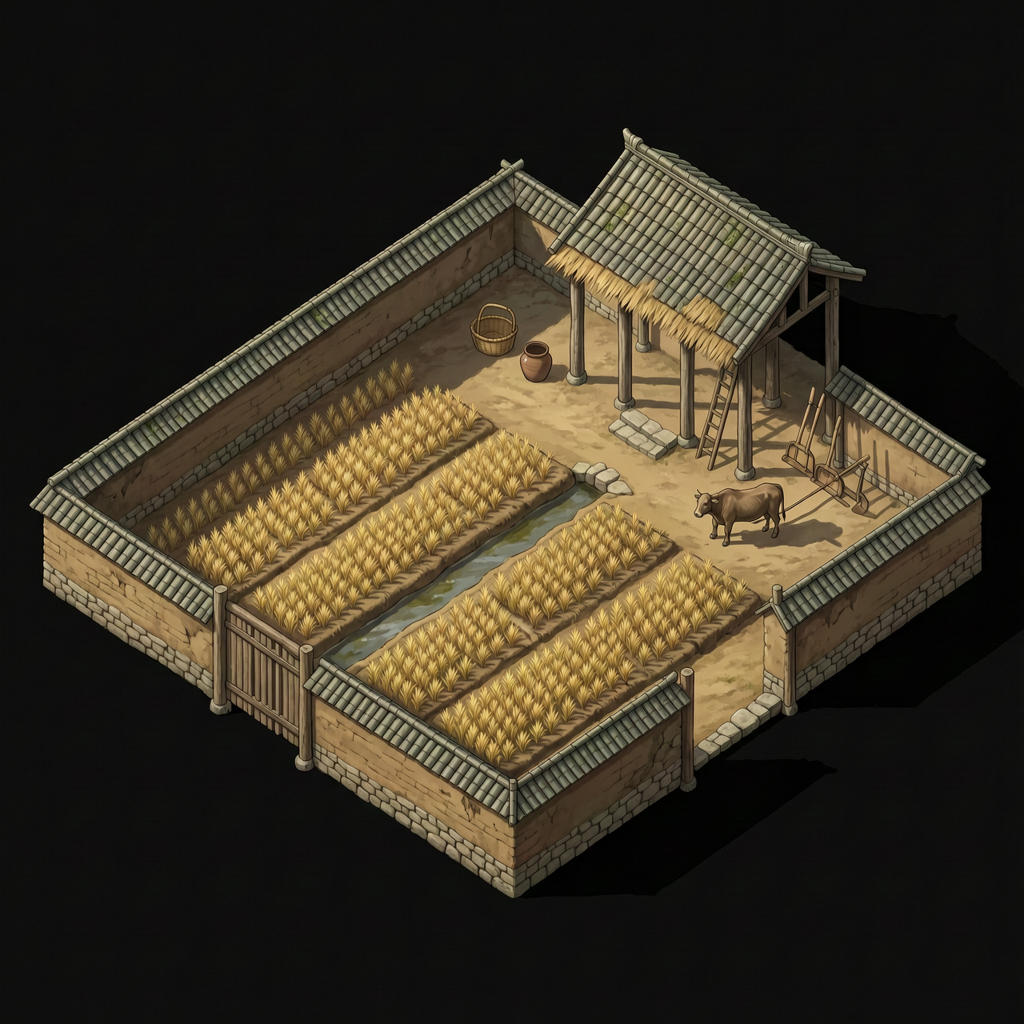
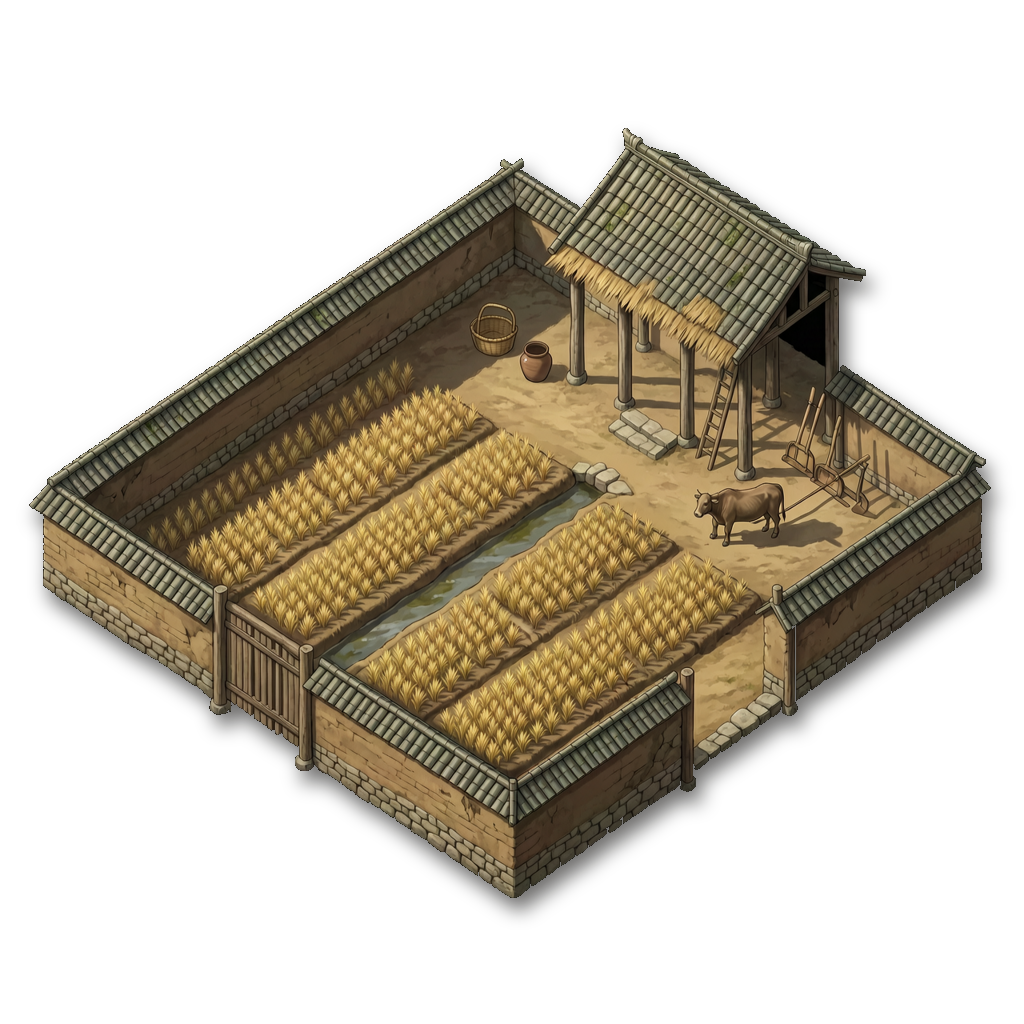
feat(art): 全20栋建筑扣黑底+柔和投影(Pillow)——无缝坐落地面,告别黑方块;原图备份art-library/buildings_raw(gitignore)

diff --git a/scripts/postprocess_buildings.py b/scripts/postprocess_buildings.py
@@ -1,0 +1,92 @@
+"""邦国录 · 建筑原画扣黑底 + 柔和投影（Pillow，零额度）。
+
+把 public/art/buildings/*.png 的纯黑 void 背景扣成透明、再加一层柔和投影,
+让建筑无缝坐落在地图上(不再是黑方块)。原图先备份到 art-library/buildings_raw/。
+
+做法:
+  - 从多个边缘点 flood-fill 标记"与边缘连通的近黑像素"为透明(阈值可调),
+    保留与边缘不连通的建筑内部暗部(屋檐阴影/门洞)。
+  - 由 alpha 剪影生成投影:偏移 + 高斯模糊 + 暗色,合成到建筑下层。
+可重复运行(每次从 buildings_raw 备份重做),不会越扣越多。
+"""
+from __future__ import annotations
+import sys
+from pathlib import Path
+from PIL import Image, ImageDraw, ImageFilter
+
+BUILD_DIR = Path("D:/code/colony-game/public/art/buildings")
+RAW_DIR = Path("D:/code/colony-game/art-library/buildings_raw")
+
+THRESH = 42            # flood-fill 近黑判定容差
+SHADOW_OFFSET = (6, 12)
+SHADOW_BLUR = 9
+SHADOW_COLOR = (10, 8, 6, 150)
+SENT = (255, 0, 255)   # flood-fill 哨兵色
+
+
+def edge_seeds(w: int, h: int):
+    # 四角 + 四边中点 + 更密的边缘点,确保连通 void 全标记
+    pts = []
+    for fx in (2, w // 4, w // 2, 3 * w // 4, w - 3):
+        pts.append((fx, 2)); pts.append((fx, h - 3))
+    for fy in (2, h // 4, h // 2, 3 * h // 4, h - 3):
+        pts.append((2, fy)); pts.append((w - 3, fy))
+    return pts
+
+
+def process(src: Path) -> None:
+    im = Image.open(src).convert("RGBA")
+    w, h = im.size
+    rgb = im.convert("RGB").copy()
+    for c in edge_seeds(w, h):
+        try:
+            ImageDraw.floodfill(rgb, c, SENT, thresh=THRESH)
+        except Exception:
+            pass
+    px_rgb = rgb.load()
+    px = im.load()
+    cut = 0
+    for y in range(h):
+        for x in range(w):
+            if px_rgb[x, y] == SENT:
+                r, g, b, _ = px[x, y]
+                px[x, y] = (r, g, b, 0)
+                cut += 1
+
+    # 投影:由 alpha 剪影生成
+    alpha = im.split()[3]
+    shadow = Image.new("RGBA", (w, h), (0, 0, 0, 0))
+    shadow.paste(SHADOW_COLOR, (0, 0), alpha)
+    shadow = shadow.filter(ImageFilter.GaussianBlur(SHADOW_BLUR))
+
+    canvas = Image.new("RGBA", (w, h), (0, 0, 0, 0))
+    canvas.alpha_composite(shadow, SHADOW_OFFSET)
+    canvas.alpha_composite(im, (0, 0))
+    canvas.save(src)
+    print(f"  {src.name}: cut {cut}/{w*h} px ({100*cut/(w*h):.0f}% 透明)")
+
+
+def main() -> int:
+    if not BUILD_DIR.exists():
+        print("[FAIL] buildings dir missing")
+        return 2
+    RAW_DIR.mkdir(parents=True, exist_ok=True)
+    pngs = sorted(BUILD_DIR.glob("bld_*.png"))
+    if not pngs:
+        print("[FAIL] no bld_*.png")
+        return 2
+    print(f"[postprocess] {len(pngs)} buildings")
+    for p in pngs:
+        raw = RAW_DIR / p.name
+        if not raw.exists():
+            # 首次:备份原图
+            Image.open(p).save(raw)
+        # 始终从 raw 备份重做,保证可重复运行不叠加
+        Image.open(raw).convert("RGBA").save(p)
+        process(p)
+    print("[postprocess] done")
+    return 0
+
+
+if __name__ == "__main__":
+    sys.exit(main())
